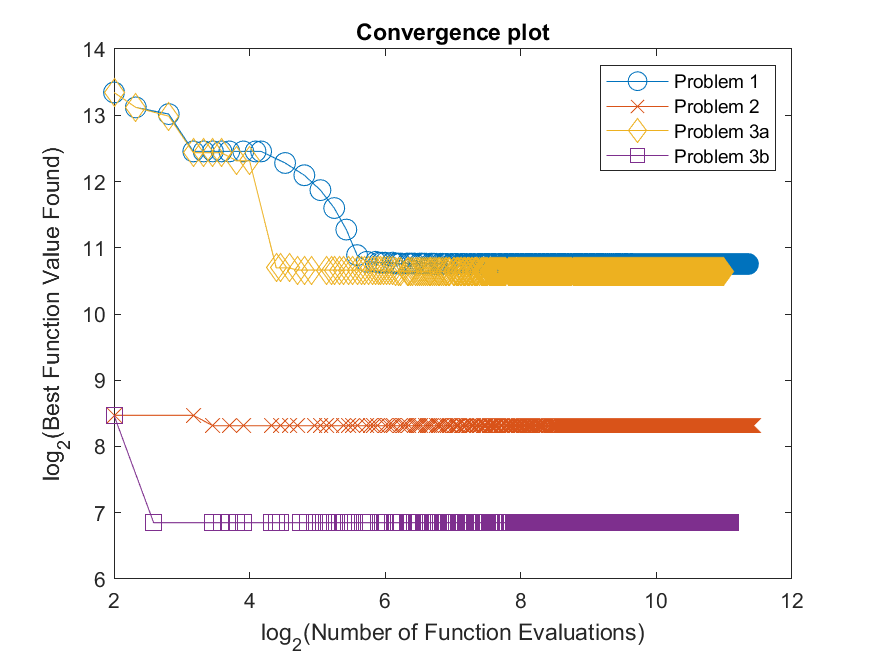
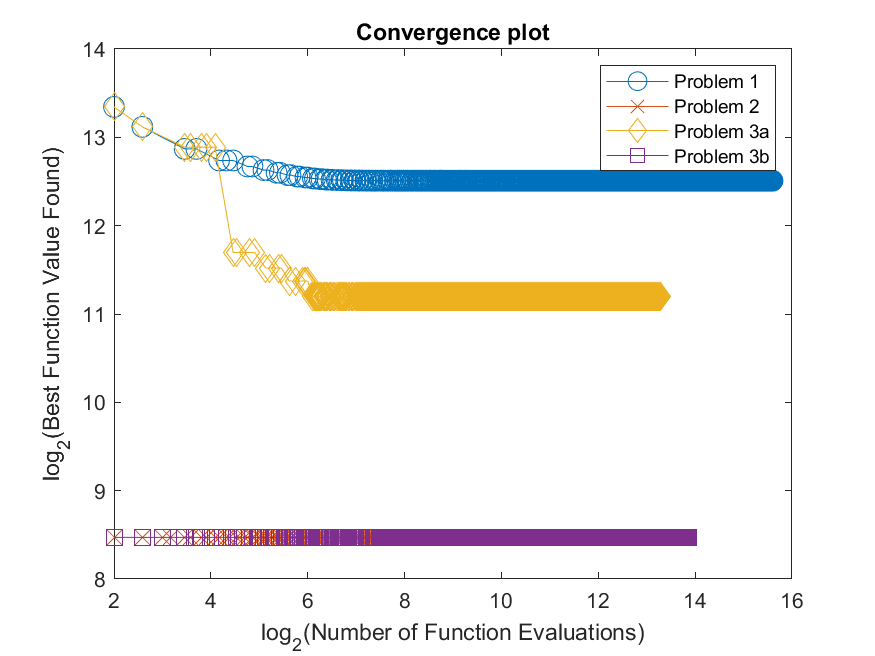
I don't know if I made any edits...

diff --git a/nelderMead.m b/nelderMead.m
@@ -19,9 +19,9 @@ k = length(Y0(1,:)); %number of columns
 % Insert a while loop here to encapsulate the rest of the algorithm
 % for some stopping condition epsilon
 
-while abs(fkbest(iter)-solution)>eps
+%while abs(fkbest(iter)-solution)>eps
 
-%while iter<2
+while iter<10000
     
     iter = iter+1;
 
@@ -105,7 +105,7 @@ while abs(fkbest(iter)-solution)>eps
     end
     %disp("before sort")
     %Yk
-    [Yk, f_store] = sortSimplex(Yk, f_store,stepComputed);
+    %[Yk, f_store] = sortSimplex(Yk, f_store,stepComputed);
     %disp("after sort")
     %Yk
     
@@ -120,8 +120,9 @@ while abs(fkbest(iter)-solution)>eps
     %disp([f_store(1), f_store(2), f_store(3), f_store(4)])
     %disp("fevals")
     %feval
-
+    
 end
-fkbest(iter);
+fkbest(iter)
+Yk
 end
 

diff --git a/main.m b/main.m
@@ -10,7 +10,7 @@ eta_i = [3220, 2190, 1640, 1050, 766, 490, 348, 223, 163, 104, 76.7, 68.1, 58.2]
 %function we want to minimize - smallest value will be 0
 f = @(x) sum((abs(520*x(1)*(1+(14*x(2))^2.*(gammadot).^2).^(((0.038*x(3))-1)/2)-eta_i)).^1); 
 eps = 40; %our desired error
-soln = [0; 0; 0];
+soln = 0;
 f([9.48,8.36,8.71]);  %this is what we want the alg to go to
 
 % Question 1a)
